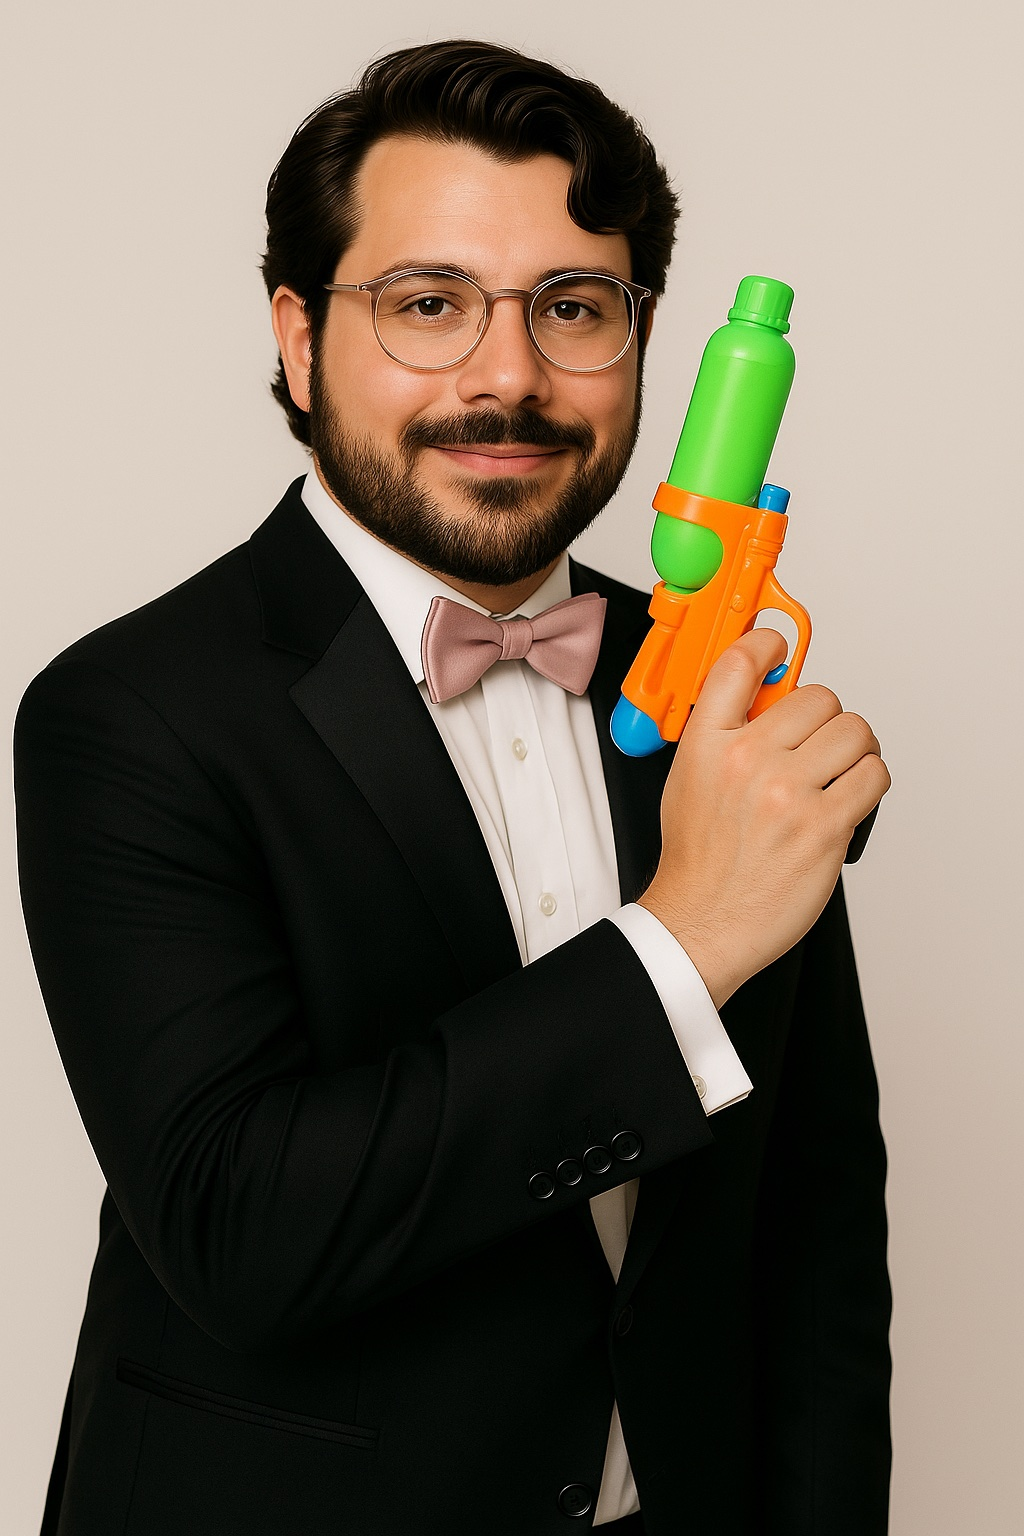
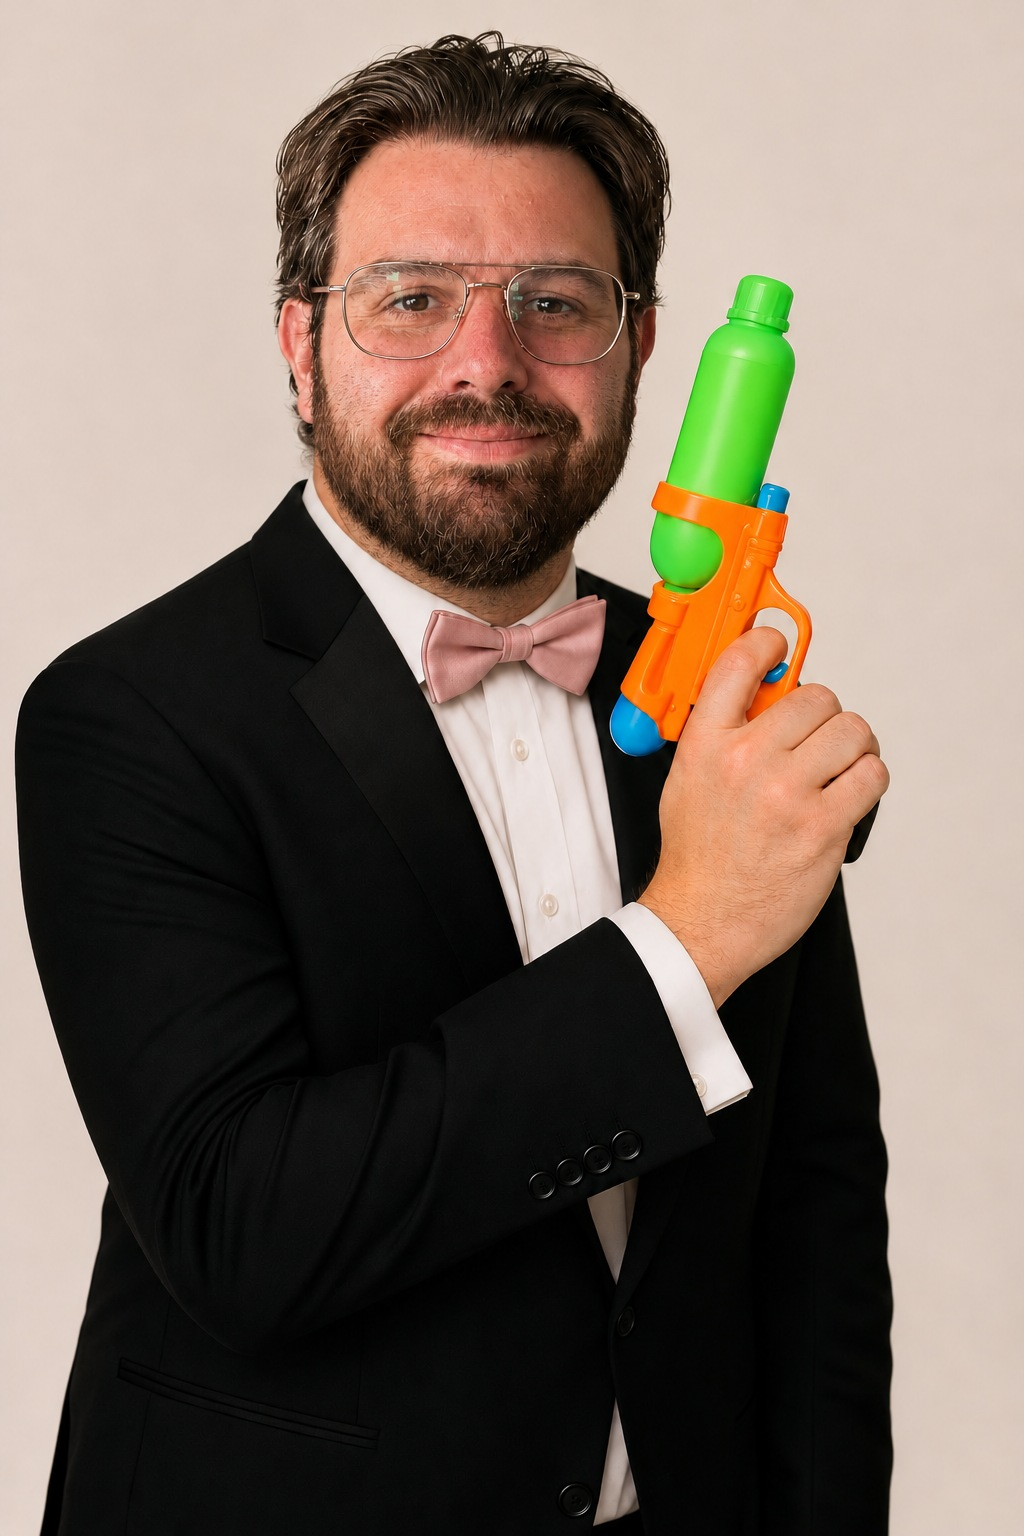
Refresh portrait, improve readability, and add Udemy case-study visuals

diff --git a/src/components/Work.tsx b/src/components/Work.tsx
@@ -7,6 +7,7 @@ interface ProjectProps {
   role?: string;
   description: string;
   imageSrc: string;
+  imageCaption?: string;
   tags: string[];
 }
 
@@ -19,9 +20,9 @@ interface CompanySectionProps {
   projects: ProjectProps[];
 }
 
-const Project: React.FC<ProjectProps> = ({ title, role, description, imageSrc, tags }) => (
+const Project: React.FC<ProjectProps> = ({ title, role, description, imageSrc, imageCaption, tags }) => (
   <div className="border-l-4 border-folder-dark pl-6 mb-16">
-    <div className="grid md:grid-cols-2 gap-8">
+    <div className={`grid gap-8 ${imageSrc ? 'md:grid-cols-2' : ''}`}>
       {/* Content Section */}
       <div>
         <h2 className="font-retro text-lg text-text-dark mb-2">{title}</h2>
@@ -31,8 +32,8 @@ const Project: React.FC<ProjectProps> = ({ title, role, description, imageSrc, t
         </p>
         <div className="flex flex-wrap gap-2">
           {tags.map((tag, index) => (
-            <span 
-              key={index} 
+            <span
+              key={index}
               className="font-retro text-xs bg-folder-dark px-2 py-1 text-text-dark"
             >
               {tag}
@@ -42,22 +43,23 @@ const Project: React.FC<ProjectProps> = ({ title, role, description, imageSrc, t
       </div>
 
       {/* Image Section */}
-      <div className="relative group">
-        <motion.div 
-          className="border-4 border-folder-dark overflow-hidden bg-folder-dark max-w-[400px] mx-auto"
+      {imageSrc && <figure className="relative group">
+        <motion.div
+          className="border-4 border-folder-dark overflow-hidden bg-folder-dark w-full mx-auto"
           whileHover={{ scale: 1.02 }}
           transition={{ duration: 0.2 }}
         >
-          <img 
-            src={imageSrc} 
-            alt={title} 
+          <a href={imageSrc} target="_blank" rel="noreferrer" aria-label={`View ${title} image at full size`}>
+          <img
+            loading="lazy"
+            src={imageSrc}
+            alt={imageCaption || title}
             className="w-full h-full object-contain"
           />
-          <div className="absolute top-0 left-0 bg-black bg-opacity-50 text-spy-accent font-retro text-xs p-2">
-            CONFIDENTIAL
-          </div>
+          </a>
         </motion.div>
-      </div>
+        {imageCaption && <figcaption className="mt-3 text-sm text-text-dark">{imageCaption} Click to enlarge.</figcaption>}
+      </figure>}
     </div>
   </div>
 );
@@ -136,31 +138,36 @@ export const Work = () => {
         {
           title: "User Research and Problem Framing",
           description: "We began by reviewing existing research and synthesizing user insights to define the core problem. Students consistently told us they viewed Udemy as a valuable use of their time, especially when compared to social or entertainment apps. However, many users purchased multiple courses and failed to complete them, often citing a lack of time. This issue was particularly pronounced for professional learners who needed to keep up with evolving skills to remain competitive or transition into new roles.",
-          imageSrc: "", // Add image path
+          imageSrc: `${import.meta.env.BASE_URL}images/udemy-user-research.png`,
+          imageCaption: "Research findings on learner motivation and time barriers (PDF page 4).",
           tags: ["User Research", "Problem Discovery", "Qualitative Analysis"]
         },
         {
           title: "Competitive and Opportunity Analysis",
           description: "We conducted a competitive analysis across learning, productivity, and behavior-driven apps to explore how others kept users engaged. From this work, we identified a strong opportunity to introduce timely nudges during moments when users were likely to have short windows of availability. The goal was to meet learners where they were and encourage brief, consistent engagement without overwhelming them.",
-          imageSrc: "/adam-website/images/competitive-analysis.png",
+          imageSrc: `${import.meta.env.BASE_URL}images/udemy-competitive-analysis.png`,
+          imageCaption: "Competitive landscape and reminder examples (PDF page 12).",
           tags: ["Competitive Analysis", "Market Research", "Product Strategy"]
         },
         {
           title: "Scope Refinement and Design",
           description: "To move quickly and reduce complexity, we focused our initial experiment on iOS only. Supporting web and Android would have required significant backend, design, and frontend work. By narrowing the scope to native iOS notifications, we were able to move forward without introducing new infrastructure dependencies. We created wireframes, built prototypes, and finalized high-fidelity designs that matched Udemy's mobile interaction patterns and visual language.",
-          imageSrc: "", // Add image path
+          imageSrc: `${import.meta.env.BASE_URL}images/udemy-purchase-flow.png`,
+          imageCaption: "MVP purchase flow and reminder setup designs (PDF page 17).",
           tags: ["Product Design", "MVP", "iOS", "UX Patterns"]
         },
         {
           title: "Build and Launch",
           description: "With a dedicated iOS engineer on the team, we developed the feature using local device scheduling to manage reminders. This approach allowed us to launch and test quickly without needing backend coordination. We conducted QA, prepared the experiment, and launched an A/B test focused exclusively on iOS users to validate the concept and measure impact.",
-          imageSrc: "", // Add image path
+          imageSrc: `${import.meta.env.BASE_URL}images/udemy-return-flow.png`,
+          imageCaption: "Triggered reminder notification and return to My Courses (PDF page 20).",
           tags: ["iOS Development", "QA", "A/B Testing"]
         },
         {
           title: "Results and Impact",
           description: "The experiment delivered clear and statistically significant results. Average minutes consumed per session increased from 12.4 to 13.61, a 9.8 percent lift, with a p-value of 0.0000003. Learning days, defined as the number of distinct days a user engaged with course content, increased from 0.34 to 0.36, representing a 7.3 percent lift, with a p-value of 0.0000000001. These results gave us strong confidence to explore expanding the feature to Android and web as part of our broader engagement strategy.",
-          imageSrc: "/images/udemy-reminders-settings.png",
+          imageSrc: `${import.meta.env.BASE_URL}images/udemy-results.png`,
+          imageCaption: "Experiment results: minutes consumed and learning days (PDF page 27).",
           tags: ["Analytics", "User Engagement", "Product Impact"]
         }
       ]
@@ -176,4 +183,4 @@ export const Work = () => {
       </div>
     </FolderLayout>
   );
-}; 
+};

diff --git a/src/components/MainMenu.tsx b/src/components/MainMenu.tsx
@@ -1,10 +1,9 @@
 import React from 'react';
 import { motion } from 'framer-motion';
-import { Link, useNavigate } from 'react-router-dom';
+import { Link } from 'react-router-dom';
 import portraitImage from '../assets/images/portrait.jpg';
 
 export const MainMenu = () => {
-  const navigate = useNavigate();
 
   return (
     <motion.div
@@ -75,14 +74,7 @@ export const MainMenu = () => {
               CLEARANCE LEVEL: TOP SECRET
             </div>
 
-            {/* Desktop Folder Tab - Hidden on mobile */}
-            <motion.div
-              onClick={() => navigate('/')}
-              whileHover={{ x: -4 }}
-              className="hidden md:flex absolute -right-20 top-8 w-20 h-28 bg-folder-brown border-t-2 border-r-2 border-b-2 border-text-dark items-center justify-center cursor-pointer hover:bg-folder-dark transition-colors duration-300"
-            >
-              <span className="font-retro text-xs text-text-dark transform -rotate-90">BACK</span>
-            </motion.div>
+
           </div>
         </div>
       </div>

diff --git a/src/index.css b/src/index.css
@@ -4,7 +4,8 @@
 
 @layer base {
   body {
-    @apply bg-spy-dark text-spy-accent;
+    @apply bg-spy-dark text-spy-accent font-retro;
+    line-height: 1.65;
   }
 }
 
@@ -12,4 +13,10 @@
   .folder-tab {
     @apply px-4 py-2 bg-folder-brown text-spy-accent hover:bg-spy-accent hover:text-spy-dark transition-colors duration-300;
   }
-} 
+}
+@layer base {
+  h1, h2, h3 { font-weight: 700; line-height: 1.35; }
+  p.font-retro, li.font-retro { font-size: 1rem; line-height: 1.75; }
+  h4.font-retro { font-size: 0.95rem; }
+  a:focus-visible, button:focus-visible { outline: 3px solid #cc0000; outline-offset: 5px; }
+}

diff --git a/tailwind.config.js b/tailwind.config.js
@@ -16,7 +16,7 @@ export default {
         'bg-green': '#2f4f4f'
       },
       fontFamily: {
-        'retro': ['"Press Start 2P"', 'cursive'],
+        'retro': ['"Chakra Petch"', '"Trebuchet MS"', 'sans-serif'],
       },
       backgroundImage: {
         'folder-texture': 'linear-gradient(45deg, rgba(0, 0, 0, 0.02) 25%, transparent 25%), linear-gradient(-45deg, rgba(0, 0, 0, 0.02) 25%, transparent 25%), linear-gradient(45deg, transparent 75%, rgba(0, 0, 0, 0.02) 75%), linear-gradient(-45deg, transparent 75%, rgba(0, 0, 0, 0.02) 75%)',

diff --git a/index.html b/index.html
@@ -3,7 +3,7 @@
   <head>
     <meta charset="UTF-8" />
     <meta name="viewport" content="width=device-width, initial-scale=1.0" />
-    <link href="https://fonts.googleapis.com/css2?family=Press+Start+2P&display=swap" rel="stylesheet">
+    <link href="https://fonts.googleapis.com/css2?family=Chakra+Petch:wght@400;500;600;700&display=swap" rel="stylesheet">
     <title>Adam Levinson - Product Leader</title>
   </head>
   <body>
